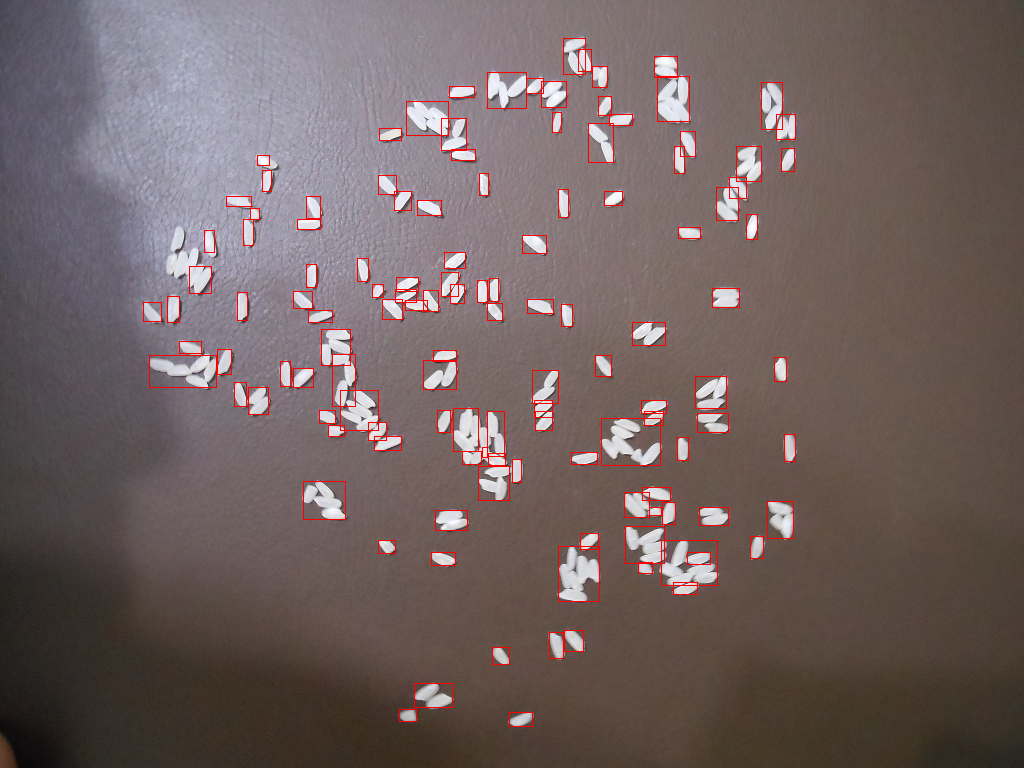
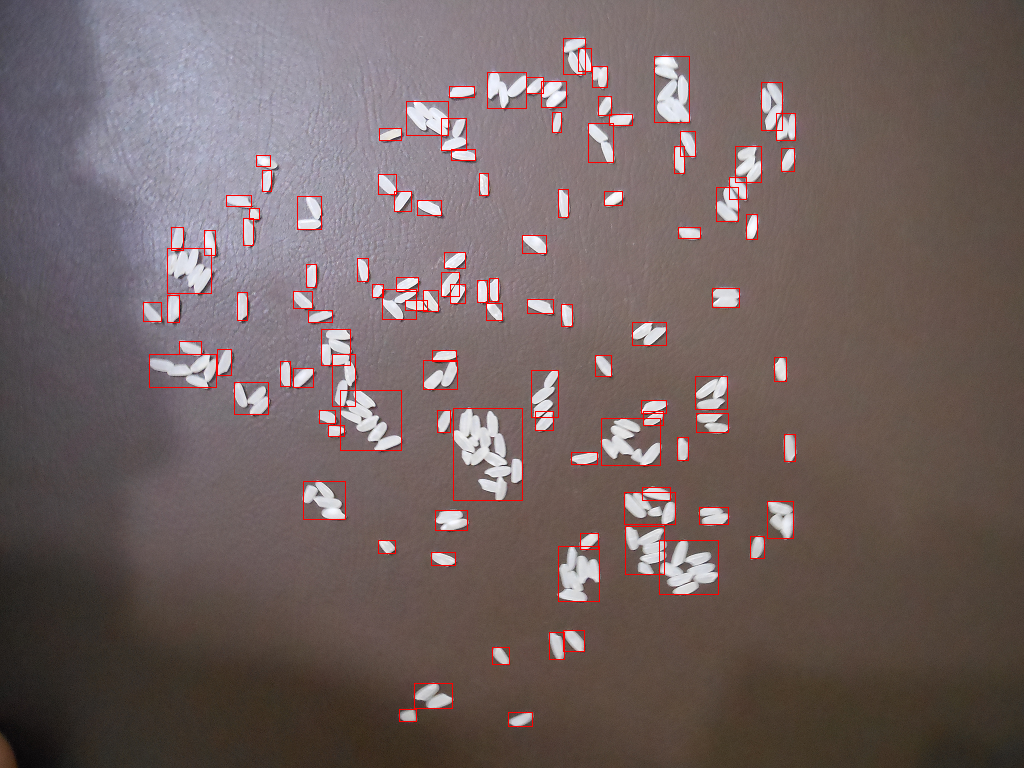
Pequena correção de parâmetros

diff --git a/pdi/Trab4/main.py b/pdi/Trab4/main.py
@@ -13,8 +13,8 @@ import timeit
 
 #===============================================================================
 
-ALTURA = 50
-LARGURA = 50
+ALTURA = 100
+LARGURA = 100
 FATOR = 0.20
 ALTURA_MIN = 1
 LARGURA_MIN = 1
